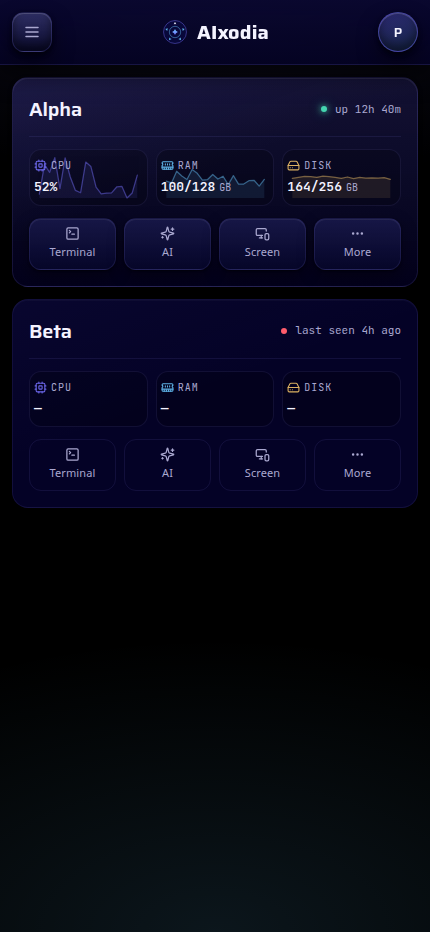
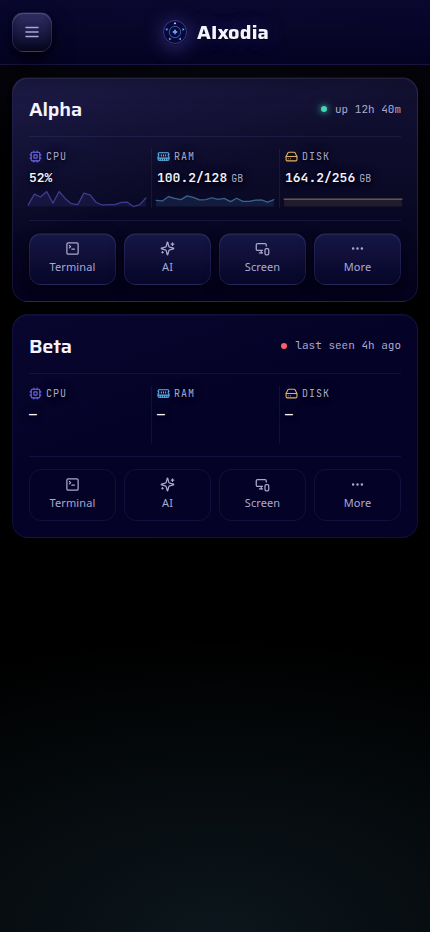
Give the trend its own band instead of drawing it through the text
A chart behind a 38px cell cannot avoid the label and the reading, so stop trying:
the metric reserves an 18px strip under the value and the spark is pinned there,
still bleeding 6px past the letters sideways. With the text out of the way the
line carries more ink (.45 to .62) and the area .10 to .14. Offline readings
reserve the same strip so the two cards stay the same height.

diff --git a/src/mock/mock.css b/src/mock/mock.css
@@ -395,6 +395,7 @@ button:disabled { cursor: not-allowed; }
 
 .metrics {
   --spark-bleed: 6px;
+  --spark-height: 18px;
   display: grid;
   /* Equal thirds: a reading that is wider than its panel is worse than one a
      little smaller, so the value below scales with the viewport instead. */
@@ -412,6 +413,9 @@ button:disabled { cursor: not-allowed; }
   flex-direction: column;
   gap: var(--s1);
   min-width: 0;
+  /* Reserves the strip the chart lives in plus a hair of air, so the line never
+     touches a glyph. */
+  padding-bottom: calc(var(--spark-height) + 2px);
 }
 
 /* With no frames the readings need an edge to be told apart: a hairline down the
@@ -433,12 +437,13 @@ button:disabled { cursor: not-allowed; }
    is decoration: never clickable, never in the accessibility tree. */
 .metric-spark {
   position: absolute;
-  /* Bleeds out sideways past the letters: the line is the shape of the history,
-     not a box drawn around the column. Both dimensions are explicit because a
-     viewBox'd SVG otherwise takes its intrinsic square ratio. */
-  inset: 0 calc(var(--spark-bleed) * -1);
+  /* Its own strip under the reading, wider than the letters on both sides: the
+     history belongs to the reading without being drawn through it. Both
+     dimensions are explicit because a viewBox'd SVG otherwise takes its intrinsic
+     square ratio. */
+  inset: auto calc(var(--spark-bleed) * -1) 0;
   width: calc(100% + var(--spark-bleed) * 2);
-  height: 100%;
+  height: var(--spark-height);
   pointer-events: none;
   color: var(--accent);
 }
@@ -448,7 +453,7 @@ button:disabled { cursor: not-allowed; }
 
 .spark-area {
   fill: currentColor;
-  opacity: 0.1;
+  opacity: 0.14;
 }
 
 .spark-line {
@@ -457,7 +462,8 @@ button:disabled { cursor: not-allowed; }
   stroke-width: 1.25;
   stroke-linejoin: round;
   stroke-linecap: round;
-  opacity: 0.45;
+  /* It has its own band now, so it can carry more ink than it could behind text. */
+  opacity: 0.62;
 }
 
 /* Text over the chart needs its own layer to stay above it, and its own shade so a

diff --git a/docs/ux-visual/verification/mock.md b/docs/ux-visual/verification/mock.md
@@ -674,3 +674,23 @@ one. Solid `--text` with shadows keeps the check honest.
 
 Audits at 320, 360, 390, 430 and 1440: 0 low contrast, no wrapped controls, no
 uneven rows, `pageScrollY 0`; the only spill remains the intended 6px chart bleed.
+
+## Round 35 — the chart gets its own band
+
+Round 34's screenshots showed the CPU trace running through its label and close to
+`52%`. A background chart in a 38px cell has no room that is free of text, so the
+fix is not a fainter line — it is giving the trace a band:
+
+- `.metrics` gains `--spark-height: 18px`; `.metric` reserves it with
+  `padding-bottom: calc(var(--spark-height) + 2px)`, and `.metric-spark` is pinned
+  to the bottom of that strip (`inset: auto -6px 0`, `height: var(--spark-height)`).
+  The horizontal bleed is unchanged, so the line still runs wider than the letters.
+- Measured at 390: value bottom `187.5`, strip `189.5–207.5`, clearance `2`,
+  strip width `115` against a `103` cell. Cells `59`, both cards `225`.
+- With the text out of the way the ink can carry more weight:
+  `stroke opacity .45 → .62`, area `.10 → .14`.
+- Offline readings reserve the strip with no chart in it, which keeps the two cards
+  the same height (`225` each) instead of letting one shrink.
+
+Audits at 320, 360, 390, 430 and 1440: 0 low contrast, no wrapped controls, no
+uneven rows, `pageScrollY 0`; the 6px chart bleed is still the only reported spill.
